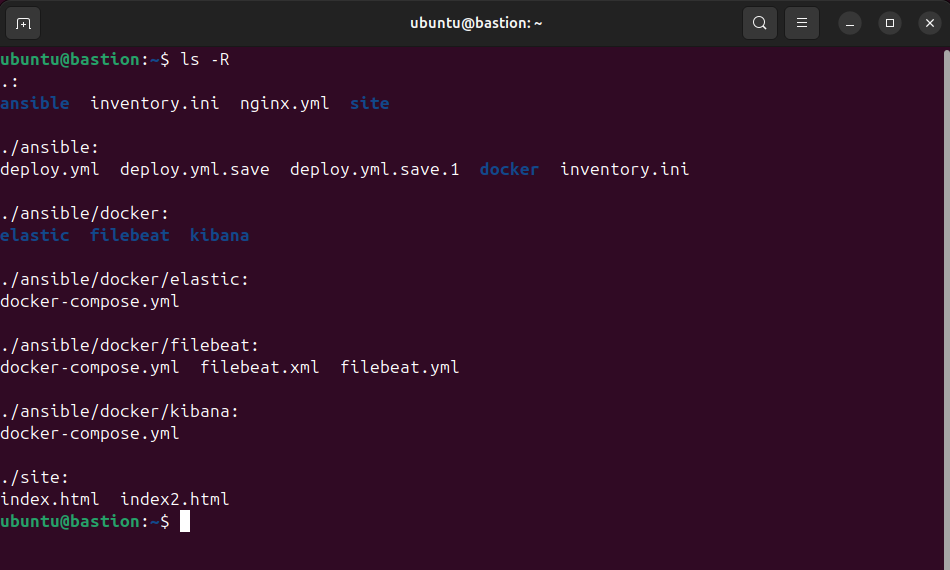
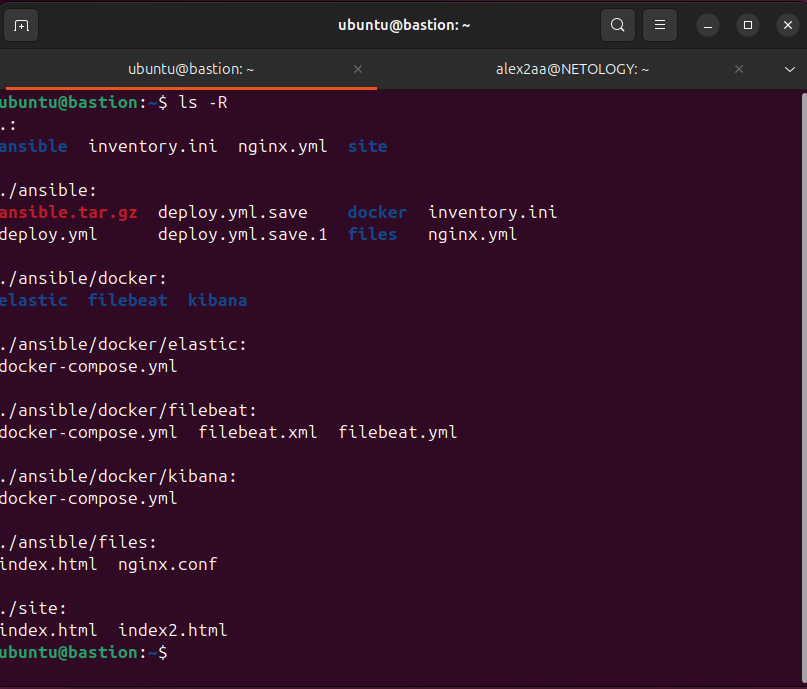
diplom4

diff --git a/ansible/files/index.html b/ansible/files/index.html
@@ -1,0 +1,1 @@
+<h1>{{ inventory_hostname }}</h1>

diff --git a/README.md b/README.md
@@ -165,193 +165,47 @@ ansible-playbook -i inventory.ini nginx.yml
 ```
 ansible/
 ├── inventory.ini
+├── nginx.yml
+├── deploy.yml
+├── files/
+│   ├── nginx.conf
+│   └── index.html
 ├── docker/
 │   ├── elastic/
-│   │   └── docker-compose.yml
 │   ├── kibana/
-│   │   └── docker-compose.yml
 │   └── filebeat/
-│       ├── docker-compose.yml
-│       └── filebeat.yml
-├── deploy.yml
 ```
 ![Ansible](img/ansible%20на%20bastion.PNG) 
 
-
 **inventory.ini**
 
-```
-[web]
-web1.ru-central1.internal
-web2.ru-central1.internal
-
-[elastic]
-elastic.ru-central1.internal
-
-[kibana]
-kibana.ru-central1.internal
-
-[zabbix]
-zabbix.ru-central1.internal
-
-[all:vars]
-ansible_user=ubuntu
-ansible_ssh_common_args='-o StrictHostKeyChecking=no'
-
-```
+[inventory.ini](ansible/inventory.ini) 
 
 **docker/elastic/docker-compose.yml**
 
-```
-version: '3.7'
-services:
-  elasticsearch:
-    image: docker.elastic.co/elasticsearch/elasticsearch:8.12.2
-    container_name: elasticsearch
-    environment:
-      - discovery.type=single-node
-      - xpack.security.enabled=false
-      - ES_JAVA_OPTS=-Xms512m -Xmx512m
-    ports:
-      - "9200:9200"
-    restart: always
-
-```
+[elastic](ansible/docker/elastic/docker-compose.yml) 
 
 **docker/kibana/docker-compose.yml**
 
-```
-version: '3.7'
-
-services:
-kibana:
-image: docker.elastic.co/kibana/kibana:8.12.2
-container_name: kibana
-environment:
-- ELASTICSEARCH_HOSTS=http://elastic.ru-central1.internal:9200
-ports:
-- "5601:5601"
-restart: always
-
-```
+[kibana](ansible/docker/kibana/docker-compose.yml) 
 
 **docker/filebeat/filebeat.yml**
 
-```
-filebeat.inputs:
-- type: filestream
-  enabled: true
-  paths:
-    - /var/log/nginx/access.log
-    - /var/log/nginx/error.log
-
-output.elasticsearch:
-  hosts: ["http://elastic.ru-central1.internal:9200"]
-
-```
+[filebeat](ansible/docker/filebeat/filebeat.yml) 
 
 **docker/filebeat/docker-compose.yml**
 
-```
-version: '3.7'
-
-services:
-filebeat:
-image: docker.elastic.co/beats/filebeat:8.12.2
-user: root
-volumes:
-- ./filebeat.yml:/usr/share/filebeat/filebeat.yml
-- /var/log/nginx:/var/log/nginx
-restart: always
-
-```
+[filebeat](ansible/docker/filebeat/docker-compose.yml) 
 
 **deploy.yml**
 
-```
-- hosts: all
-  become: yes
-  tasks:
-    - name: remove elastic repo (fix apt)
-      shell: rm -f /etc/apt/sources.list.d/*elastic*
-      ignore_errors: yes
+[deploy.yml](ansible/deploy.yml) 
 
-    - name: update apt cache
-      apt:
-        update_cache: yes
+**nginx.yml**
 
-    - name: install docker
-      apt:
-        name: docker.io
-        state: present
+[nginx.yml](ansible/nginx.yml) 
 
-    - name: install docker-compose
-      apt:
-        name: docker-compose
-        state: present
-
-# ================= ELASTIC =================
-- hosts: elastic
-  become: yes
-  tasks:
-    - name: copy docker-compose
-      copy:
-        src: docker/elastic/docker-compose.yml
-        dest: /home/ubuntu/docker-compose.yml
-
-    - name: remove old container
-      shell: docker rm -f elasticsearch || true
-
-    - name: start elastic
-      shell: docker-compose up -d
-      args:
-        chdir: /home/ubuntu
-
-# ================= KIBANA =================
-- hosts: kibana
-  become: yes
-  tasks:
-    - name: copy docker-compose
-      copy:
-        src: docker/kibana/docker-compose.yml
-        dest: /home/ubuntu/docker-compose.yml
-
-    - name: remove old container
-      shell: docker rm -f kibana || true
-
-    - name: start kibana
-      shell: docker-compose up -d
-      args:
-        chdir: /home/ubuntu
-
-# ================= FILEBEAT =================
-- hosts: web
-  become: yes
-  tasks:
-    - name: copy filebeat config
-      copy:
-        src: docker/filebeat/filebeat.yml
-        dest: /home/ubuntu/filebeat.yml
-        owner: root
-        group: root
-        mode: '0644'
-
-    - name: copy docker-compose
-      copy:
-        src: docker/filebeat/docker-compose.yml
-        dest: /home/ubuntu/docker-compose.yml
-
-    - name: remove old container
-      shell: docker rm -f filebeat || true
-
-    - name: start filebeat
-      shell: docker-compose up -d
-      args:
-        chdir: /home/ubuntu
-
-```
-
-**Запускаем - ansible-playbook -i inventory.ini deploy.yml**
+**Запускаем - ansible-playbook -i inventory.ini nginx.yml**
 
 
 ### 7. SECURITY GROUPS
